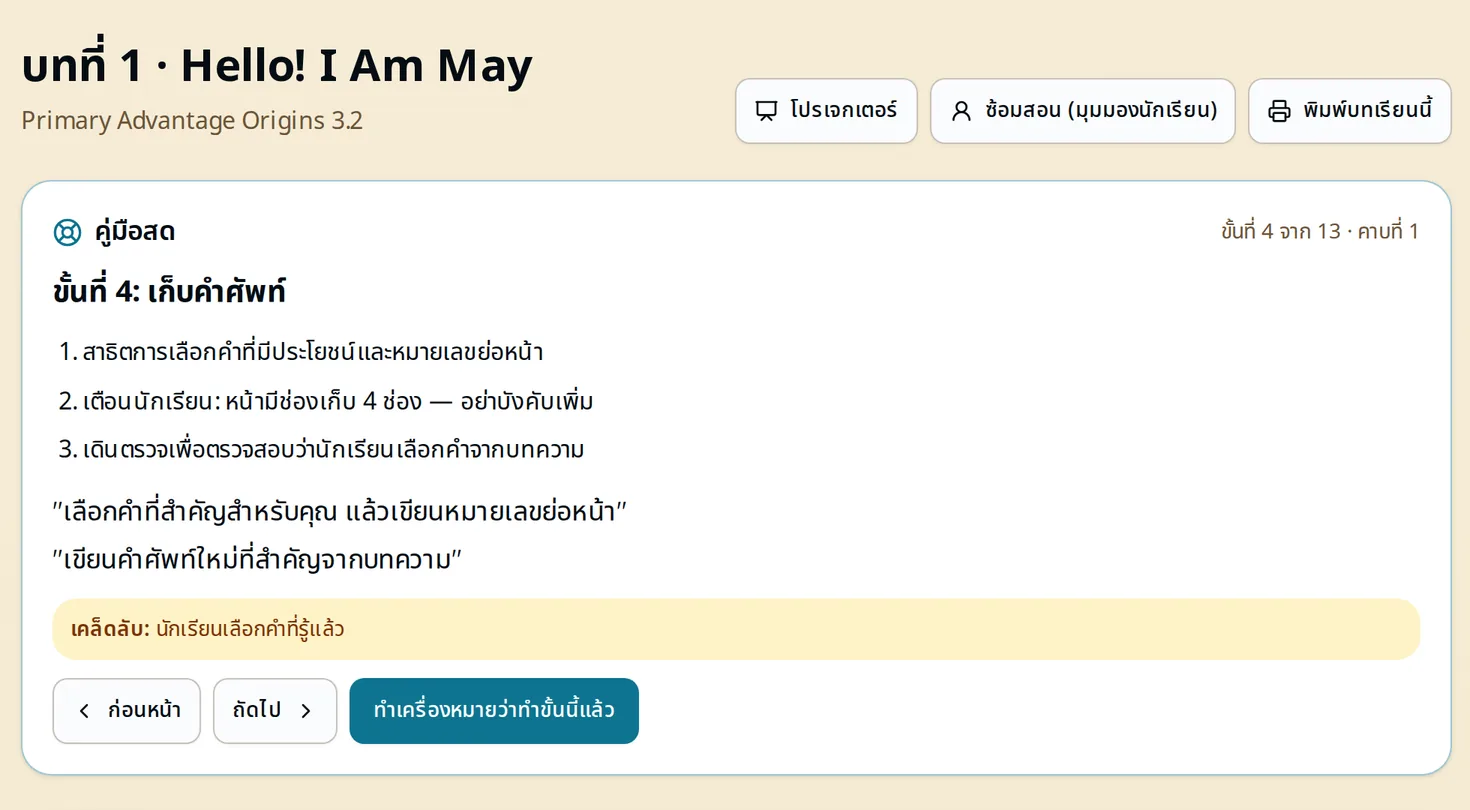
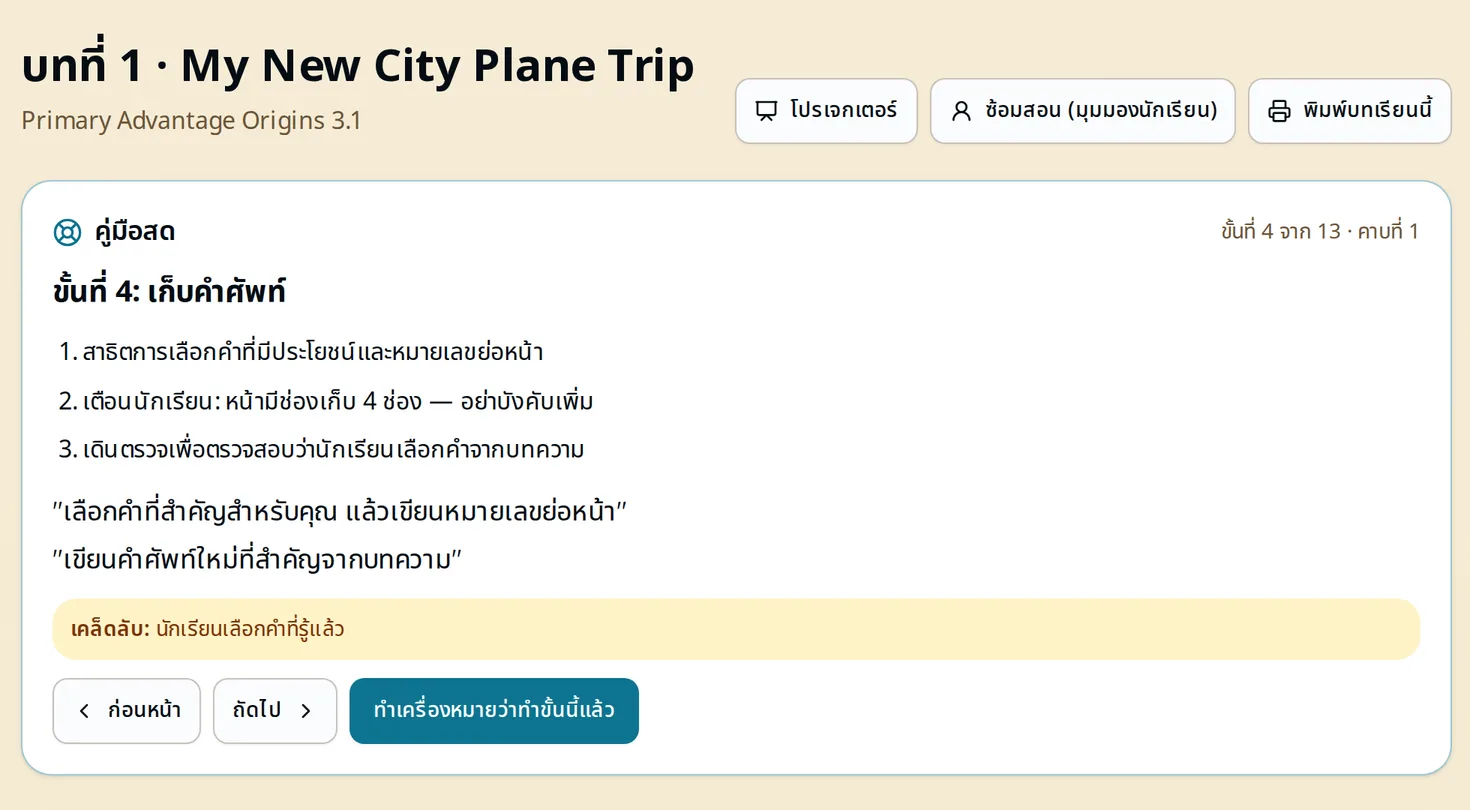
fix(primary): manual shows origins 3.1 (track_id: primary_teacher_books_lesson_support_20261003)
Boonyathat uses Origins 3.1 only. Seven pictures came from the class-book chain
with the test book Origins 3.2; the Origins 3.1 retake (local copy, Thai date
order in the assign form) replaces them. The classBook number sits left of the
button (at: "left"), so it covers no text.

Changed region(s): [[0.1224, 0.0617, 0.4898, 0.1235]]

diff --git a/apps/primary-advantage/lib/teacher-manual-figures.ts b/apps/primary-advantage/lib/teacher-manual-figures.ts
@@ -2,8 +2,8 @@
 // start kit captures (local test copy, demo teacher, light scheme). Do not edit by hand: run the script again.
 
 /**
- * A numbered mark on a manual picture, in percent of the picture. `n` is the step number. `at: "top"` puts the
- * number above the middle of the box (default: outside the top-right corner).
+ * A numbered mark on a manual picture, in percent of the picture. `n` is the step number. `at` puts the number
+ * above the middle of the box (`top`) or left of the box (`left`); the default is outside the top-right corner.
  */
 export interface ManualMark {
   n?: number;
@@ -11,7 +11,7 @@ export interface ManualMark {
   y: number;
   w: number;
   h: number;
-  at?: "top";
+  at?: "top" | "left";
 }
 
 /** A picture of the in-app teacher manual with its marks. */
@@ -32,7 +32,7 @@ export const MANUAL_FIGURES = {
   classStarted: { src: "/manual/classStarted.webp", width: 1455, height: 750, marks: [{ n: 2, x: 2.58, y: 11.76, w: 94.02, h: 40.8 }, { n: 4, x: 13.4, y: 55.76, w: 11.55, h: 9.6 }] },
   roster: { src: "/manual/roster.webp", width: 1455, height: 390, marks: [{ x: 48.45, y: 33.92, w: 14.33, h: 18.46 }, { x: 50.72, y: 74.0, w: 12.06, h: 18.46 }] },
   assignBook: { src: "/manual/assignBook.webp", width: 1455, height: 480, marks: [{ n: 2, x: 2.37, y: 31.19, w: 94.43, h: 15.0 }, { n: 3, x: 2.37, y: 57.44, w: 46.6, h: 15.0, at: "top" }, { n: 4, x: 50.21, y: 57.44, w: 46.6, h: 15.0 }, { n: 4, x: 2.37, y: 76.19, w: 9.9, h: 15.0 }] },
-  classBook: { src: "/manual/classBook.webp", width: 1455, height: 510, marks: [{ n: 1, x: 2.37, y: 76.29, w: 13.4, h: 14.12 }] },
+  classBook: { src: "/manual/classBook.webp", width: 1491, height: 510, marks: [{ n: 1, x: 4.73, y: 76.29, w: 13.08, h: 14.12, at: "left" }] },
   lessonGuide: { src: "/manual/lessonGuide.webp", width: 1470, height: 810, marks: [{ n: 2, x: 1.43, y: 22.19, w: 97.35, h: 73.63 }, { n: 3, x: 23.78, y: 83.7, w: 19.69, h: 8.15 }, { n: 4, x: 50.0, y: 9.59, w: 12.45, h: 8.15 }] },
   projector: { src: "/manual/projector.webp", width: 1470, height: 840, marks: [] },
   lessonPlan: { src: "/manual/lessonPlan.webp", width: 1455, height: 510, marks: [{ n: 1, x: 78.56, y: 16.41, w: 20.21, h: 12.94 }] },

diff --git a/apps/primary-advantage/components/teacher/manual-guide.tsx b/apps/primary-advantage/components/teacher/manual-guide.tsx
@@ -24,7 +24,7 @@ function UiLabel({ children }: { children?: ReactNode }) {
 
 /**
  * A manual picture with its numbered marks, in the print style: a black stroke with a white outline
- * outside the control, and the number in a circle outside the top-right corner (or above the middle).
+ * outside the control, and the number in a circle outside the top-right corner (or above the middle, or left).
  * @param props.id The picture.
  * @param props.caption What the picture shows; also its alternative text.
  * @param props.testData The note that the picture holds test data.
@@ -48,8 +48,8 @@ function ManualPicture({ id, caption, testData }: { id: ManualFigureId; caption:
             {mark.n && (
               <span
                 className={cn(
-                  "absolute -top-4 grid size-6 place-items-center rounded-full bg-black text-xs font-bold text-white shadow-[0_0_0_2px_white]",
-                  mark.at === "top" ? "left-1/2 -translate-x-1/2" : "-right-4",
+                  "absolute grid size-6 place-items-center rounded-full bg-black text-xs font-bold text-white shadow-[0_0_0_2px_white]",
+                  mark.at === "top" ? "-top-4 left-1/2 -translate-x-1/2" : mark.at === "left" ? "top-1/2 -left-8 -translate-y-1/2" : "-top-4 -right-4",
                 )}
               >
                 {mark.n}
